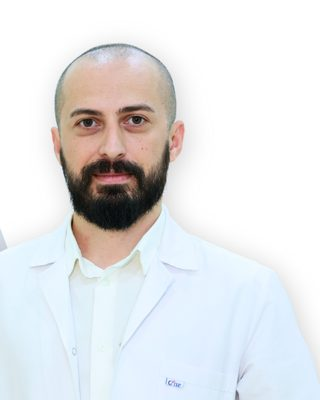
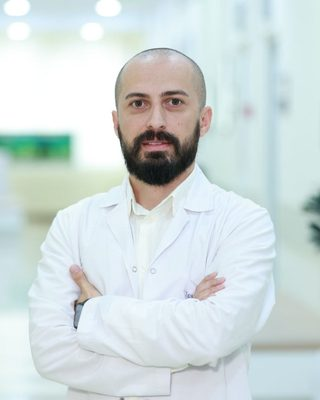
Настоящее фото; «Обо мне» по CV: образование, полный опыт, членство в ESC, публикации

diff --git a/o-mne.html b/o-mne.html
@@ -4,7 +4,7 @@
 <meta charset="utf-8">
 <meta name="viewport" content="width=device-width, initial-scale=1, viewport-fit=cover">
 <title>თორნიკე კალაძე — კარდიოლოგი თბილისში: გამოცდილება და კვალიფიკაცია</title>
-<meta name="description" content="კარდიოლოგი თორნიკე კალაძე: კარდიოლოგიაში 2011 წლიდან — ალადაშვილის კლინიკა, New Hospitals, American Hospital Tbilisi; ამჟამად Caraps Medline და კლინიკური ფარმაკოლოგიის სწავლება თსსუ-ში.">
+<meta name="description" content="კარდიოლოგი თორნიკე კალაძე: კარდიოლოგიის რეზიდენტურა თსსუ-ში, კარდიოლოგიაში 2011 წლიდან — ალადაშვილის კლინიკა, New Hospitals, American Hospital Tbilisi; ამჟამად Caraps Medline და კლინიკური ფარმაკოლოგიის სწავლება თსსუ-ში. ESC-ის წევრი.">
 <meta name="robots" content="noindex, nofollow">
 <link rel="canonical" href="https://zuko90-sys.github.io/dr-kaladze-site/o-mne.html">
 <link rel="alternate" hreflang="ka" href="https://zuko90-sys.github.io/dr-kaladze-site/o-mne.html">
@@ -18,7 +18,7 @@
 <meta property="og:locale" content="ka_GE">
 <meta property="og:site_name" content="თორნიკე კალაძე">
 <meta property="og:title" content="თორნიკე კალაძე — კარდიოლოგი თბილისში: გამოცდილება და კვალიფიკაცია">
-<meta property="og:description" content="კარდიოლოგი თორნიკე კალაძე: კარდიოლოგიაში 2011 წლიდან — ალადაშვილის კლინიკა, New Hospitals, American Hospital Tbilisi; ამჟამად Caraps Medline და კლინიკური ფარმაკოლოგიის სწავლება თსსუ-ში.">
+<meta property="og:description" content="კარდიოლოგი თორნიკე კალაძე: კარდიოლოგიის რეზიდენტურა თსსუ-ში, კარდიოლოგიაში 2011 წლიდან — ალადაშვილის კლინიკა, New Hospitals, American Hospital Tbilisi; ამჟამად Caraps Medline და კლინიკური ფარმაკოლოგიის სწავლება თსსუ-ში. ESC-ის წევრი.">
 <meta property="og:url" content="https://zuko90-sys.github.io/dr-kaladze-site/o-mne.html">
 <meta property="og:image" content="https://zuko90-sys.github.io/dr-kaladze-site/og-image.png">
 <meta property="og:image:alt" content="თორნიკე კალაძე — კარდიოლოგი თბილისში">
@@ -120,16 +120,18 @@
   <div class="shell">
     <div class="section__head">
       <h2 id="exp-h">გამოცდილება</h2>
-      <p class="section__intro">კარდიოლოგიაში 2011 წლიდან — თბილისის კლინიკებში.</p>
+      <p class="section__intro">კარდიოლოგიაში 2011 წლიდან — თბილისის კლინიკებში: რეანიმაციიდან და კარდიოქირურგიის განყოფილებებიდან ამბულატორიულ მიღებამდე.</p>
     </div>
-    <ol class="timeline">
+    <ol class="timeline" data-approve="Даты и формулировки по LinkedIn и CV — на сверку с Торнике">
       <li class="tl tl--now"><span class="tl__years">2024 —</span><span><span class="tl__place">Caraps Medline</span><span class="tl__role">კარდიოლოგი</span></span></li>
       <li class="tl tl--now"><span class="tl__years">2024 —</span><span><span class="tl__place">თბილისის სახელმწიფო სამედიცინო უნივერსიტეტი</span><span class="tl__role">მოწვეული ლექტორი, კლინიკური ფარმაკოლოგია</span></span></li>
-      <li class="tl"><span class="tl__years">2024 — 2026</span><span><span class="tl__place">დავით ტატიშვილის სამედიცინო ცენტრი</span><span class="tl__role">კარდიოლოგი</span></span></li>
-      <li class="tl"><span class="tl__years">2023 — 2024</span><span><span class="tl__place">Jerarsi Clinic</span><span class="tl__role">კარდიოლოგი</span></span></li>
-      <li class="tl"><span class="tl__years">2021 — 2023</span><span><span class="tl__place">American Hospital Tbilisi</span><span class="tl__role">კარდიოლოგი</span></span></li>
-      <li class="tl"><span class="tl__years">2015 — 2019</span><span><span class="tl__place">New Hospitals</span><span class="tl__role">კარდიოლოგი</span></span></li>
-      <li class="tl"><span class="tl__years">2011 — 2014</span><span><span class="tl__place">ალადაშვილის კლინიკა</span><span class="tl__role">უმცროსი ექიმი-კარდიოლოგი</span></span></li>
+      <li class="tl"><span class="tl__years">2024 — 2026</span><span><span class="tl__place">დავით ტატიშვილის სამედიცინო ცენტრი</span><span class="tl__role">კარდიოლოგი, ამბულატორიული მიღება</span></span></li>
+      <li class="tl"><span class="tl__years">2023 — 2024</span><span><span class="tl__place">Jerarsi Clinic</span><span class="tl__role">კარდიოლოგი — რეანიმაცია, კარდიოქირურგიის განყოფილება, სტაციონარი, ამბულატორია</span></span></li>
+      <li class="tl"><span class="tl__years">2021 — 2023</span><span><span class="tl__place">American Hospital Tbilisi</span><span class="tl__role">კარდიოლოგი — რეანიმაცია, კარდიოქირურგიის განყოფილება, სტაციონარი, ამბულატორია</span></span></li>
+      <li class="tl"><span class="tl__years">2020 — 2021</span><span><span class="tl__place">Helios</span><span class="tl__role">მოწვეული კარდიოლოგი, ამბულატორიული მიღება</span></span></li>
+      <li class="tl"><span class="tl__years">2015 — 2019</span><span><span class="tl__place">New Hospitals</span><span class="tl__role">უმცროსი ექიმი-კარდიოლოგი, ინტენსიური თერაპიის განყოფილება</span></span></li>
+      <li class="tl"><span class="tl__years">წლები დასაზუსტებელია</span><span><span class="tl__place">კარდიორეაბილიტაციის ცენტრი · პირველი საუნივერსიტეტო კლინიკა</span><span class="tl__role">უმცროსი ექიმი-კარდიოლოგი, ინტენსიური თერაპიის განყოფილებები</span></span></li>
+      <li class="tl"><span class="tl__years">2011 — 2014</span><span><span class="tl__place">ალადაშვილის კლინიკა</span><span class="tl__role">უმცროსი ექიმი-კარდიოლოგი — რეანიმაცია და სტაციონარი</span></span></li>
     </ol>
   </div>
 </section>
@@ -137,12 +139,52 @@
 <section class="section" aria-labelledby="edu-h">
   <div class="shell">
     <div class="section__head">
-      <h2 id="edu-h">კვალიფიკაცია</h2>
+      <h2 id="edu-h">განათლება</h2>
     </div>
-    <ul class="plain">
+    <ol class="timeline" data-approve="По CV — на сверку с Торнике">
+      <li class="tl"><span class="tl__years">2015 — 2019</span><span><span class="tl__place">კარდიოლოგიის რეზიდენტურა, თსსუ</span><span class="tl__role">ზოგადი კარდიოლოგია, ექოკარდიოგრაფია</span></span></li>
+      <li class="tl"><span class="tl__years">2008 — 2014</span><span><span class="tl__place">თბილისის სახელმწიფო სამედიცინო უნივერსიტეტი</span><span class="tl__role">სამედიცინო განათლება</span></span></li>
+      <li class="tl"><span class="tl__years">2005 — 2008</span><span><span class="tl__place">სამედიცინო კოლეჯი „თბილისი“</span><span class="tl__role">ექთანი</span></span></li>
+    </ol>
+  </div>
+</section>
+
+<section class="section" aria-labelledby="qual-h">
+  <div class="shell">
+    <div class="section__head">
+      <h2 id="qual-h">კვალიფიკაცია და წევრობა</h2>
+    </div>
+    <ul class="plain" data-approve="По CV и LinkedIn — на сверку с Торнике">
       <li>კარდიოლოგიის სერტიფიკატი, საქართველოს მოქმედი სამედიცინო ლიცენზია.</li>
+      <li>კარდიოლოგიის რეზიდენტურა თსსუ-ში (2015–2019): ზოგადი კარდიოლოგია და ექოკარდიოგრაფია.</li>
+      <li>ევროპის კარდიოლოგთა საზოგადოების (ESC) და მისი ასოციაციების წევრი — გადაუდებელი კარდიოლოგიის (ACVC), გულის უკმარისობის (HFA), გულ-სისხლძარღვთა ვიზუალიზაციის (EACVI) და პრევენციული კარდიოლოგიის (EAPC); საქართველოს კარდიოლოგთა ასოციაციის წევრი.</li>
+      <li>რეგულარულად გავდივარ სიცოცხლის ძირითადი მხარდაჭერის (BLS) კურსს; 2023 წელს — Code Blue.</li>
       <li>ენები: ქართული, რუსული, ინგლისური.</li>
     </ul>
+  </div>
+</section>
+
+<section class="section" aria-labelledby="pub-h">
+  <div class="shell">
+    <div class="section__head">
+      <h2 id="pub-h">სამეცნიერო პუბლიკაციები</h2>
+      <p class="section__intro">2012–2015 წლების ექვსი სამეცნიერო ნაშრომის თანაავტორი — არტერიული ჰიპერტენზიის ფარმაკოლოგიაზე, წინაგულების ფიბრილაციასა და ექსპერიმენტულ მედიცინაზე; გამოქვეყნებულია საქართველოს მეცნიერებათა ეროვნული აკადემიის „მოამბეში“, ჟურნალ „ექსპერიმენტულ და კლინიკურ მედიცინაში“ და სტუდენტური სამეცნიერო საზოგადოებების კრებულებში.</p>
+    </div>
+    <div class="faq" data-approve="По CV — на сверку с Торнике">
+      <details>
+        <summary>პუბლიკაციების სია</summary>
+        <div class="faq__a">
+          <ul class="plain pubs" lang="en">
+            <li><b>2012</b> — Comparative study of influence of Aliskiren, Enalapril, Losartan and Enalapril/Losartan combination on blood coagulation, morphological changes in myocardium and lipid content in rats with DOCA-salt hypertension. N. Gongadze, L. Gabunia, R. Rukhadze, K. Gambashidze, T. Kaladze, A. Dgebuadze, E. Gogokhia. <i>Proc. Georgian Nat. Acad. Sci., Biomed. Series</i>, 2012, vol. 38, No 5–6.</li>
+            <li><b>2012</b> — The influence of Enalapril on baroreflex sensitivity, vagal nerve activity and cyclic guanylate cyclase function in hypertensive rats. T. Kaladze, A. Dgebuadze, N. Gongadze, L. Gabunia, M. Marziashvili, M. Gogolauri, T. Makharadze. <i>Official Journal of the CIS Society of Allergology and Immunology</i>, 2012, vol. 13, No 3.</li>
+            <li><b>2013</b> — Prevalence of atrial fibrillation in Tbilisi in the first quarter of 2013. Abstract book, Students’ Scientific Society of Tbilisi State Medical University.</li>
+            <li><b>2014</b> — The influence of tobacco smoke on the respiratory tract of laboratory mice. T. Kaladze, M. Okhanashvili, T. Gelashvili, M. Janjgava. Abstract book, Students’ Scientific Society of Tbilisi State Medical University.</li>
+            <li><b>2014</b> — Anti-cancer efficacy of bacteriophages and bacterial phage lysates: in vivo experimental studies. K. Ghambashidze, N. Bezhitashvili, N. Phkhaladze, T. Azaladze, D. Karkarashvili, T. Kaladze. <i>Experimental and Clinical Medicine</i>, 2014, No 3, p. 64.</li>
+            <li><b>2015</b> — Comparative study of influence of Aliskiren, Enalapril, Losartan and Enalapril/Losartan combination on blood coagulation, morphological changes in myocardium and lipid content in rats with DOCA-salt hypertension. T. Kaladze, E. Varazi. Abstract book of the 2nd International Medical Congress for Students and Young Scientists, <i>Hyst — The Ukrainian Student Medical Journal</i>, 2015, No 17.</li>
+          </ul>
+        </div>
+      </details>
+    </div>
   </div>
 </section>
 

diff --git a/ru/o-mne.html b/ru/o-mne.html
@@ -4,7 +4,7 @@
 <meta charset="utf-8">
 <meta name="viewport" content="width=device-width, initial-scale=1, viewport-fit=cover">
 <title>Торнике Каладзе — кардиолог в Тбилиси: опыт и квалификация</title>
-<meta name="description" content="Кардиолог Торнике Каладзе: в кардиологии с 2011 года — клиника Аладашвили, New Hospitals, American Hospital Tbilisi; сейчас Caraps Medline и преподавание клинической фармакологии в ТГМУ.">
+<meta name="description" content="Кардиолог Торнике Каладзе: резидентура по кардиологии в ТГМУ, в кардиологии с 2011 года — клиника Аладашвили, New Hospitals, American Hospital Tbilisi; сейчас Caraps Medline и преподавание клинической фармакологии в ТГМУ. Член ESC.">
 <meta name="robots" content="noindex, nofollow">
 <link rel="canonical" href="https://zuko90-sys.github.io/dr-kaladze-site/ru/o-mne.html">
 <link rel="alternate" hreflang="ka" href="https://zuko90-sys.github.io/dr-kaladze-site/o-mne.html">
@@ -18,7 +18,7 @@
 <meta property="og:locale" content="ru_RU">
 <meta property="og:site_name" content="Торнике Каладзе">
 <meta property="og:title" content="Торнике Каладзе — кардиолог в Тбилиси: опыт и квалификация">
-<meta property="og:description" content="Кардиолог Торнике Каладзе: в кардиологии с 2011 года — клиника Аладашвили, New Hospitals, American Hospital Tbilisi; сейчас Caraps Medline и преподавание клинической фармакологии в ТГМУ.">
+<meta property="og:description" content="Кардиолог Торнике Каладзе: резидентура по кардиологии в ТГМУ, в кардиологии с 2011 года — клиника Аладашвили, New Hospitals, American Hospital Tbilisi; сейчас Caraps Medline и преподавание клинической фармакологии в ТГМУ. Член ESC.">
 <meta property="og:url" content="https://zuko90-sys.github.io/dr-kaladze-site/ru/o-mne.html">
 <meta property="og:image" content="https://zuko90-sys.github.io/dr-kaladze-site/og-image-ru.png">
 <meta property="og:image:alt" content="Торнике Каладзе — кардиолог в Тбилиси">
@@ -120,16 +120,18 @@
   <div class="shell">
     <div class="section__head">
       <h2 id="exp-h">Опыт</h2>
-      <p class="section__intro">В&nbsp;кардиологии с&nbsp;2011&nbsp;года&nbsp;— в&nbsp;клиниках Тбилиси.</p>
+      <p class="section__intro">В&nbsp;кардиологии с&nbsp;2011&nbsp;года&nbsp;— в&nbsp;клиниках Тбилиси: от&nbsp;реанимации и&nbsp;кардиохирургических отделений до&nbsp;амбулаторного приёма.</p>
     </div>
-    <ol class="timeline">
+    <ol class="timeline" data-approve="Даты и формулировки по LinkedIn и CV — на сверку с Торнике">
       <li class="tl tl--now"><span class="tl__years">2024 —</span><span><span class="tl__place">Caraps Medline</span><span class="tl__role">кардиолог</span></span></li>
       <li class="tl tl--now"><span class="tl__years">2024 —</span><span><span class="tl__place">Тбилисский государственный медицинский университет</span><span class="tl__role">приглашённый лектор, клиническая фармакология</span></span></li>
-      <li class="tl"><span class="tl__years">2024 — 2026</span><span><span class="tl__place">Медицинский центр Давида Татишвили</span><span class="tl__role">кардиолог</span></span></li>
-      <li class="tl"><span class="tl__years">2023 — 2024</span><span><span class="tl__place">Jerarsi Clinic</span><span class="tl__role">кардиолог</span></span></li>
-      <li class="tl"><span class="tl__years">2021 — 2023</span><span><span class="tl__place">American Hospital Tbilisi</span><span class="tl__role">кардиолог</span></span></li>
-      <li class="tl"><span class="tl__years">2015 — 2019</span><span><span class="tl__place">New Hospitals</span><span class="tl__role">кардиолог</span></span></li>
-      <li class="tl"><span class="tl__years">2011 — 2014</span><span><span class="tl__place">Клиника Аладашвили</span><span class="tl__role">младший врач-кардиолог</span></span></li>
+      <li class="tl"><span class="tl__years">2024 — 2026</span><span><span class="tl__place">Медицинский центр Давида Татишвили</span><span class="tl__role">кардиолог, амбулаторный приём</span></span></li>
+      <li class="tl"><span class="tl__years">2023 — 2024</span><span><span class="tl__place">Jerarsi Clinic</span><span class="tl__role">кардиолог&nbsp;— реанимация, кардиохирургическое отделение, стационар, амбулаторный приём</span></span></li>
+      <li class="tl"><span class="tl__years">2021 — 2023</span><span><span class="tl__place">American Hospital Tbilisi</span><span class="tl__role">кардиолог&nbsp;— реанимация, кардиохирургическое отделение, стационар, амбулаторный приём</span></span></li>
+      <li class="tl"><span class="tl__years">2020 — 2021</span><span><span class="tl__place">Helios</span><span class="tl__role">приглашённый кардиолог, амбулаторный приём</span></span></li>
+      <li class="tl"><span class="tl__years">2015 — 2019</span><span><span class="tl__place">New Hospitals</span><span class="tl__role">младший врач-кардиолог, отделение интенсивной терапии</span></span></li>
+      <li class="tl"><span class="tl__years">годы уточняются</span><span><span class="tl__place">Кардиореабилитационный центр · Первая университетская клиника</span><span class="tl__role">младший врач-кардиолог, отделения интенсивной терапии</span></span></li>
+      <li class="tl"><span class="tl__years">2011 — 2014</span><span><span class="tl__place">Клиника Аладашвили</span><span class="tl__role">младший врач-кардиолог&nbsp;— реанимация и&nbsp;стационар</span></span></li>
     </ol>
   </div>
 </section>
@@ -137,12 +139,52 @@
 <section class="section" aria-labelledby="edu-h">
   <div class="shell">
     <div class="section__head">
-      <h2 id="edu-h">Квалификация</h2>
+      <h2 id="edu-h">Образование</h2>
     </div>
-    <ul class="plain">
+    <ol class="timeline" data-approve="По CV — на сверку с Торнике">
+      <li class="tl"><span class="tl__years">2015 — 2019</span><span><span class="tl__place">Резидентура по&nbsp;кардиологии, ТГМУ</span><span class="tl__role">общая кардиология, эхокардиография</span></span></li>
+      <li class="tl"><span class="tl__years">2008 — 2014</span><span><span class="tl__place">Тбилисский государственный медицинский университет</span><span class="tl__role">медицинское образование</span></span></li>
+      <li class="tl"><span class="tl__years">2005 — 2008</span><span><span class="tl__place">Медицинский колледж «Тбилиси»</span><span class="tl__role">медбрат</span></span></li>
+    </ol>
+  </div>
+</section>
+
+<section class="section" aria-labelledby="qual-h">
+  <div class="shell">
+    <div class="section__head">
+      <h2 id="qual-h">Квалификация и&nbsp;членство</h2>
+    </div>
+    <ul class="plain" data-approve="По CV и LinkedIn — на сверку с Торнике">
       <li>Сертификация по&nbsp;кардиологии, действующая медицинская лицензия Грузии.</li>
+      <li>Резидентура по&nbsp;кардиологии в&nbsp;ТГМУ (2015–2019): общая кардиология и&nbsp;эхокардиография.</li>
+      <li>Член Европейского общества кардиологов (ESC) и&nbsp;его ассоциаций&nbsp;— по&nbsp;неотложной кардиологии (ACVC), сердечной недостаточности (HFA), сердечно-сосудистой визуализации (EACVI) и&nbsp;профилактической кардиологии (EAPC); член Грузинской ассоциации кардиологов.</li>
+      <li>Регулярно прохожу курс базовой реанимации (BLS); в&nbsp;2023&nbsp;году&nbsp;— курс Code Blue.</li>
       <li>Языки: грузинский, русский, английский.</li>
     </ul>
+  </div>
+</section>
+
+<section class="section" aria-labelledby="pub-h">
+  <div class="shell">
+    <div class="section__head">
+      <h2 id="pub-h">Научные публикации</h2>
+      <p class="section__intro">Соавтор шести научных работ 2012–2015&nbsp;годов&nbsp;— по&nbsp;фармакологии артериальной гипертензии, фибрилляции предсердий и&nbsp;экспериментальной медицине; опубликованы в&nbsp;«Известиях Национальной академии наук Грузии», журнале «Экспериментальная и&nbsp;клиническая медицина» и&nbsp;сборниках студенческих научных обществ.</p>
+    </div>
+    <div class="faq" data-approve="По CV — на сверку с Торнике">
+      <details>
+        <summary>Список публикаций</summary>
+        <div class="faq__a">
+          <ul class="plain pubs" lang="en">
+            <li><b>2012</b> — Comparative study of influence of Aliskiren, Enalapril, Losartan and Enalapril/Losartan combination on blood coagulation, morphological changes in myocardium and lipid content in rats with DOCA-salt hypertension. N. Gongadze, L. Gabunia, R. Rukhadze, K. Gambashidze, T. Kaladze, A. Dgebuadze, E. Gogokhia. <i>Proc. Georgian Nat. Acad. Sci., Biomed. Series</i>, 2012, vol. 38, No 5–6.</li>
+            <li><b>2012</b> — The influence of Enalapril on baroreflex sensitivity, vagal nerve activity and cyclic guanylate cyclase function in hypertensive rats. T. Kaladze, A. Dgebuadze, N. Gongadze, L. Gabunia, M. Marziashvili, M. Gogolauri, T. Makharadze. <i>Official Journal of the CIS Society of Allergology and Immunology</i>, 2012, vol. 13, No 3.</li>
+            <li><b>2013</b> — Prevalence of atrial fibrillation in Tbilisi in the first quarter of 2013. Abstract book, Students’ Scientific Society of Tbilisi State Medical University.</li>
+            <li><b>2014</b> — The influence of tobacco smoke on the respiratory tract of laboratory mice. T. Kaladze, M. Okhanashvili, T. Gelashvili, M. Janjgava. Abstract book, Students’ Scientific Society of Tbilisi State Medical University.</li>
+            <li><b>2014</b> — Anti-cancer efficacy of bacteriophages and bacterial phage lysates: in vivo experimental studies. K. Ghambashidze, N. Bezhitashvili, N. Phkhaladze, T. Azaladze, D. Karkarashvili, T. Kaladze. <i>Experimental and Clinical Medicine</i>, 2014, No 3, p. 64.</li>
+            <li><b>2015</b> — Comparative study of influence of Aliskiren, Enalapril, Losartan and Enalapril/Losartan combination on blood coagulation, morphological changes in myocardium and lipid content in rats with DOCA-salt hypertension. T. Kaladze, E. Varazi. Abstract book of the 2nd International Medical Congress for Students and Young Scientists, <i>Hyst — The Ukrainian Student Medical Journal</i>, 2015, No 17.</li>
+          </ul>
+        </div>
+      </details>
+    </div>
   </div>
 </section>
 

diff --git a/en/o-mne.html b/en/o-mne.html
@@ -4,7 +4,7 @@
 <meta charset="utf-8">
 <meta name="viewport" content="width=device-width, initial-scale=1, viewport-fit=cover">
 <title>Tornike Kaladze — cardiologist in Tbilisi: experience and qualifications</title>
-<meta name="description" content="Cardiologist Tornike Kaladze: in cardiology since 2011 — Aladashvili Clinic, New Hospitals, American Hospital Tbilisi; now at Caraps Medline and teaching clinical pharmacology at TSMU.">
+<meta name="description" content="Cardiologist Tornike Kaladze: cardiology residency at TSMU, in cardiology since 2011 — Aladashvili Clinic, New Hospitals, American Hospital Tbilisi; now at Caraps Medline and teaching clinical pharmacology at TSMU. ESC member.">
 <meta name="robots" content="noindex, nofollow">
 <link rel="canonical" href="https://zuko90-sys.github.io/dr-kaladze-site/en/o-mne.html">
 <link rel="alternate" hreflang="ka" href="https://zuko90-sys.github.io/dr-kaladze-site/o-mne.html">
@@ -18,7 +18,7 @@
 <meta property="og:locale" content="en_US">
 <meta property="og:site_name" content="Tornike Kaladze">
 <meta property="og:title" content="Tornike Kaladze — cardiologist in Tbilisi: experience and qualifications">
-<meta property="og:description" content="Cardiologist Tornike Kaladze: in cardiology since 2011 — Aladashvili Clinic, New Hospitals, American Hospital Tbilisi; now at Caraps Medline and teaching clinical pharmacology at TSMU.">
+<meta property="og:description" content="Cardiologist Tornike Kaladze: cardiology residency at TSMU, in cardiology since 2011 — Aladashvili Clinic, New Hospitals, American Hospital Tbilisi; now at Caraps Medline and teaching clinical pharmacology at TSMU. ESC member.">
 <meta property="og:url" content="https://zuko90-sys.github.io/dr-kaladze-site/en/o-mne.html">
 <meta property="og:image" content="https://zuko90-sys.github.io/dr-kaladze-site/og-image-en.png">
 <meta property="og:image:alt" content="Tornike Kaladze — cardiologist in Tbilisi">
@@ -120,16 +120,18 @@
   <div class="shell">
     <div class="section__head">
       <h2 id="exp-h">Experience</h2>
-      <p class="section__intro">In cardiology since 2011, at clinics in Tbilisi.</p>
+      <p class="section__intro">In cardiology since 2011, at clinics in Tbilisi — from intensive care and cardiac surgery departments to the outpatient clinic.</p>
     </div>
-    <ol class="timeline">
+    <ol class="timeline" data-approve="Даты и формулировки по LinkedIn и CV — на сверку с Торнике">
       <li class="tl tl--now"><span class="tl__years">2024 —</span><span><span class="tl__place">Caraps Medline</span><span class="tl__role">cardiologist</span></span></li>
       <li class="tl tl--now"><span class="tl__years">2024 —</span><span><span class="tl__place">Tbilisi State Medical University</span><span class="tl__role">invited lecturer, clinical pharmacology</span></span></li>
-      <li class="tl"><span class="tl__years">2024 — 2026</span><span><span class="tl__place">David Tatishvili Medical Center</span><span class="tl__role">cardiologist</span></span></li>
-      <li class="tl"><span class="tl__years">2023 — 2024</span><span><span class="tl__place">Jerarsi Clinic</span><span class="tl__role">cardiologist</span></span></li>
-      <li class="tl"><span class="tl__years">2021 — 2023</span><span><span class="tl__place">American Hospital Tbilisi</span><span class="tl__role">cardiologist</span></span></li>
-      <li class="tl"><span class="tl__years">2015 — 2019</span><span><span class="tl__place">New Hospitals</span><span class="tl__role">cardiologist</span></span></li>
-      <li class="tl"><span class="tl__years">2011 — 2014</span><span><span class="tl__place">Aladashvili Clinic</span><span class="tl__role">junior cardiologist</span></span></li>
+      <li class="tl"><span class="tl__years">2024 — 2026</span><span><span class="tl__place">David Tatishvili Medical Center</span><span class="tl__role">cardiologist, outpatient clinic</span></span></li>
+      <li class="tl"><span class="tl__years">2023 — 2024</span><span><span class="tl__place">Jerarsi Clinic</span><span class="tl__role">cardiologist — ICU, cardiothoracic surgery, wards, outpatient clinic</span></span></li>
+      <li class="tl"><span class="tl__years">2021 — 2023</span><span><span class="tl__place">American Hospital Tbilisi</span><span class="tl__role">cardiologist — ICU, cardiothoracic surgery, wards, outpatient clinic</span></span></li>
+      <li class="tl"><span class="tl__years">2020 — 2021</span><span><span class="tl__place">Helios</span><span class="tl__role">visiting cardiologist, outpatient clinic</span></span></li>
+      <li class="tl"><span class="tl__years">2015 — 2019</span><span><span class="tl__place">New Hospitals</span><span class="tl__role">junior cardiologist, intensive care unit</span></span></li>
+      <li class="tl"><span class="tl__years">dates to be confirmed</span><span><span class="tl__place">Cardio-Rehabilitation Center · First University Clinic</span><span class="tl__role">junior cardiologist, intensive care units</span></span></li>
+      <li class="tl"><span class="tl__years">2011 — 2014</span><span><span class="tl__place">Aladashvili Clinic</span><span class="tl__role">junior cardiologist — intensive care unit and wards</span></span></li>
     </ol>
   </div>
 </section>
@@ -137,12 +139,52 @@
 <section class="section" aria-labelledby="edu-h">
   <div class="shell">
     <div class="section__head">
-      <h2 id="edu-h">Qualifications</h2>
+      <h2 id="edu-h">Education</h2>
     </div>
-    <ul class="plain">
+    <ol class="timeline" data-approve="По CV — на сверку с Торнике">
+      <li class="tl"><span class="tl__years">2015 — 2019</span><span><span class="tl__place">Cardiology residency, TSMU</span><span class="tl__role">general cardiology, echocardiography</span></span></li>
+      <li class="tl"><span class="tl__years">2008 — 2014</span><span><span class="tl__place">Tbilisi State Medical University</span><span class="tl__role">medical degree</span></span></li>
+      <li class="tl"><span class="tl__years">2005 — 2008</span><span><span class="tl__place">Medical College “Tbilisi”</span><span class="tl__role">nurse</span></span></li>
+    </ol>
+  </div>
+</section>
+
+<section class="section" aria-labelledby="qual-h">
+  <div class="shell">
+    <div class="section__head">
+      <h2 id="qual-h">Qualifications and memberships</h2>
+    </div>
+    <ul class="plain" data-approve="По CV и LinkedIn — на сверку с Торнике">
       <li>Certified in cardiology; current Georgian medical licence.</li>
+      <li>Cardiology residency at TSMU (2015–2019): general cardiology and echocardiography.</li>
+      <li>Member of the European Society of Cardiology (ESC) and its associations — Acute Cardiovascular Care (ACVC), Heart Failure (HFA), Cardiovascular Imaging (EACVI) and Preventive Cardiology (EAPC); member of the Georgian Cardiology Association.</li>
+      <li>I take the Basic Life Support (BLS) course regularly; Code Blue course in 2023.</li>
       <li>Languages: Georgian, Russian, English.</li>
     </ul>
+  </div>
+</section>
+
+<section class="section" aria-labelledby="pub-h">
+  <div class="shell">
+    <div class="section__head">
+      <h2 id="pub-h">Publications</h2>
+      <p class="section__intro">Co-author of six research papers (2012–2015) on the pharmacology of hypertension, atrial fibrillation and experimental medicine — in the Proceedings of the Georgian National Academy of Sciences, the journal Experimental and Clinical Medicine, and student research society collections.</p>
+    </div>
+    <div class="faq" data-approve="По CV — на сверку с Торнике">
+      <details>
+        <summary>List of publications</summary>
+        <div class="faq__a">
+          <ul class="plain pubs" lang="en">
+            <li><b>2012</b> — Comparative study of influence of Aliskiren, Enalapril, Losartan and Enalapril/Losartan combination on blood coagulation, morphological changes in myocardium and lipid content in rats with DOCA-salt hypertension. N. Gongadze, L. Gabunia, R. Rukhadze, K. Gambashidze, T. Kaladze, A. Dgebuadze, E. Gogokhia. <i>Proc. Georgian Nat. Acad. Sci., Biomed. Series</i>, 2012, vol. 38, No 5–6.</li>
+            <li><b>2012</b> — The influence of Enalapril on baroreflex sensitivity, vagal nerve activity and cyclic guanylate cyclase function in hypertensive rats. T. Kaladze, A. Dgebuadze, N. Gongadze, L. Gabunia, M. Marziashvili, M. Gogolauri, T. Makharadze. <i>Official Journal of the CIS Society of Allergology and Immunology</i>, 2012, vol. 13, No 3.</li>
+            <li><b>2013</b> — Prevalence of atrial fibrillation in Tbilisi in the first quarter of 2013. Abstract book, Students’ Scientific Society of Tbilisi State Medical University.</li>
+            <li><b>2014</b> — The influence of tobacco smoke on the respiratory tract of laboratory mice. T. Kaladze, M. Okhanashvili, T. Gelashvili, M. Janjgava. Abstract book, Students’ Scientific Society of Tbilisi State Medical University.</li>
+            <li><b>2014</b> — Anti-cancer efficacy of bacteriophages and bacterial phage lysates: in vivo experimental studies. K. Ghambashidze, N. Bezhitashvili, N. Phkhaladze, T. Azaladze, D. Karkarashvili, T. Kaladze. <i>Experimental and Clinical Medicine</i>, 2014, No 3, p. 64.</li>
+            <li><b>2015</b> — Comparative study of influence of Aliskiren, Enalapril, Losartan and Enalapril/Losartan combination on blood coagulation, morphological changes in myocardium and lipid content in rats with DOCA-salt hypertension. T. Kaladze, E. Varazi. Abstract book of the 2nd International Medical Congress for Students and Young Scientists, <i>Hyst — The Ukrainian Student Medical Journal</i>, 2015, No 17.</li>
+          </ul>
+        </div>
+      </details>
+    </div>
   </div>
 </section>
 

diff --git a/style.css b/style.css
@@ -139,8 +139,12 @@ h1 { grid-column: 1 / span 8; grid-row: 1; align-self: end; margin: 0; min-width
 .intro { grid-column: 1 / span 6; grid-row: 2; }
 .spec { grid-column: 9 / span 4; grid-row: 2; }
 .portrait { position: relative; margin: 0; aspect-ratio: 4 / 5; overflow: hidden; border-radius: var(--radius-photo); background: var(--color-paper-2); }
-/* фон снимка умножается на светлую подложку — портрет без рамки и без белого прямоугольника */
-.portrait img { position: absolute; inset: 0; width: 100%; height: 100%; object-fit: cover; object-position: 50% 0; mix-blend-mode: multiply; filter: brightness(1.04); }
+/* настоящий снимок (коридор клиники): без наложений, кадр от верхнего края — голова и плечи в квадрате главной */
+.portrait img { position: absolute; inset: 0; width: 100%; height: 100%; object-fit: cover; object-position: 50% 0; }
+/* список публикаций: год — ярлык строки */
+.pubs li + li { margin-top: var(--space-sm); }
+.pubs b { color: var(--color-ink); font-weight: 600; }
+.pubs i { font-style: italic; }
 .lede { max-width: 34rem; margin: 0; font-size: var(--text-md); line-height: 1.55; }
 .cta { display: flex; flex-wrap: wrap; align-items: center; gap: var(--space-md) var(--space-lg); margin-top: var(--space-xl); }
 .phone { color: var(--color-ink); text-decoration: none; white-space: nowrap; font: 600 var(--text-md)/1 var(--font-body); font-variant-numeric: tabular-nums; }
